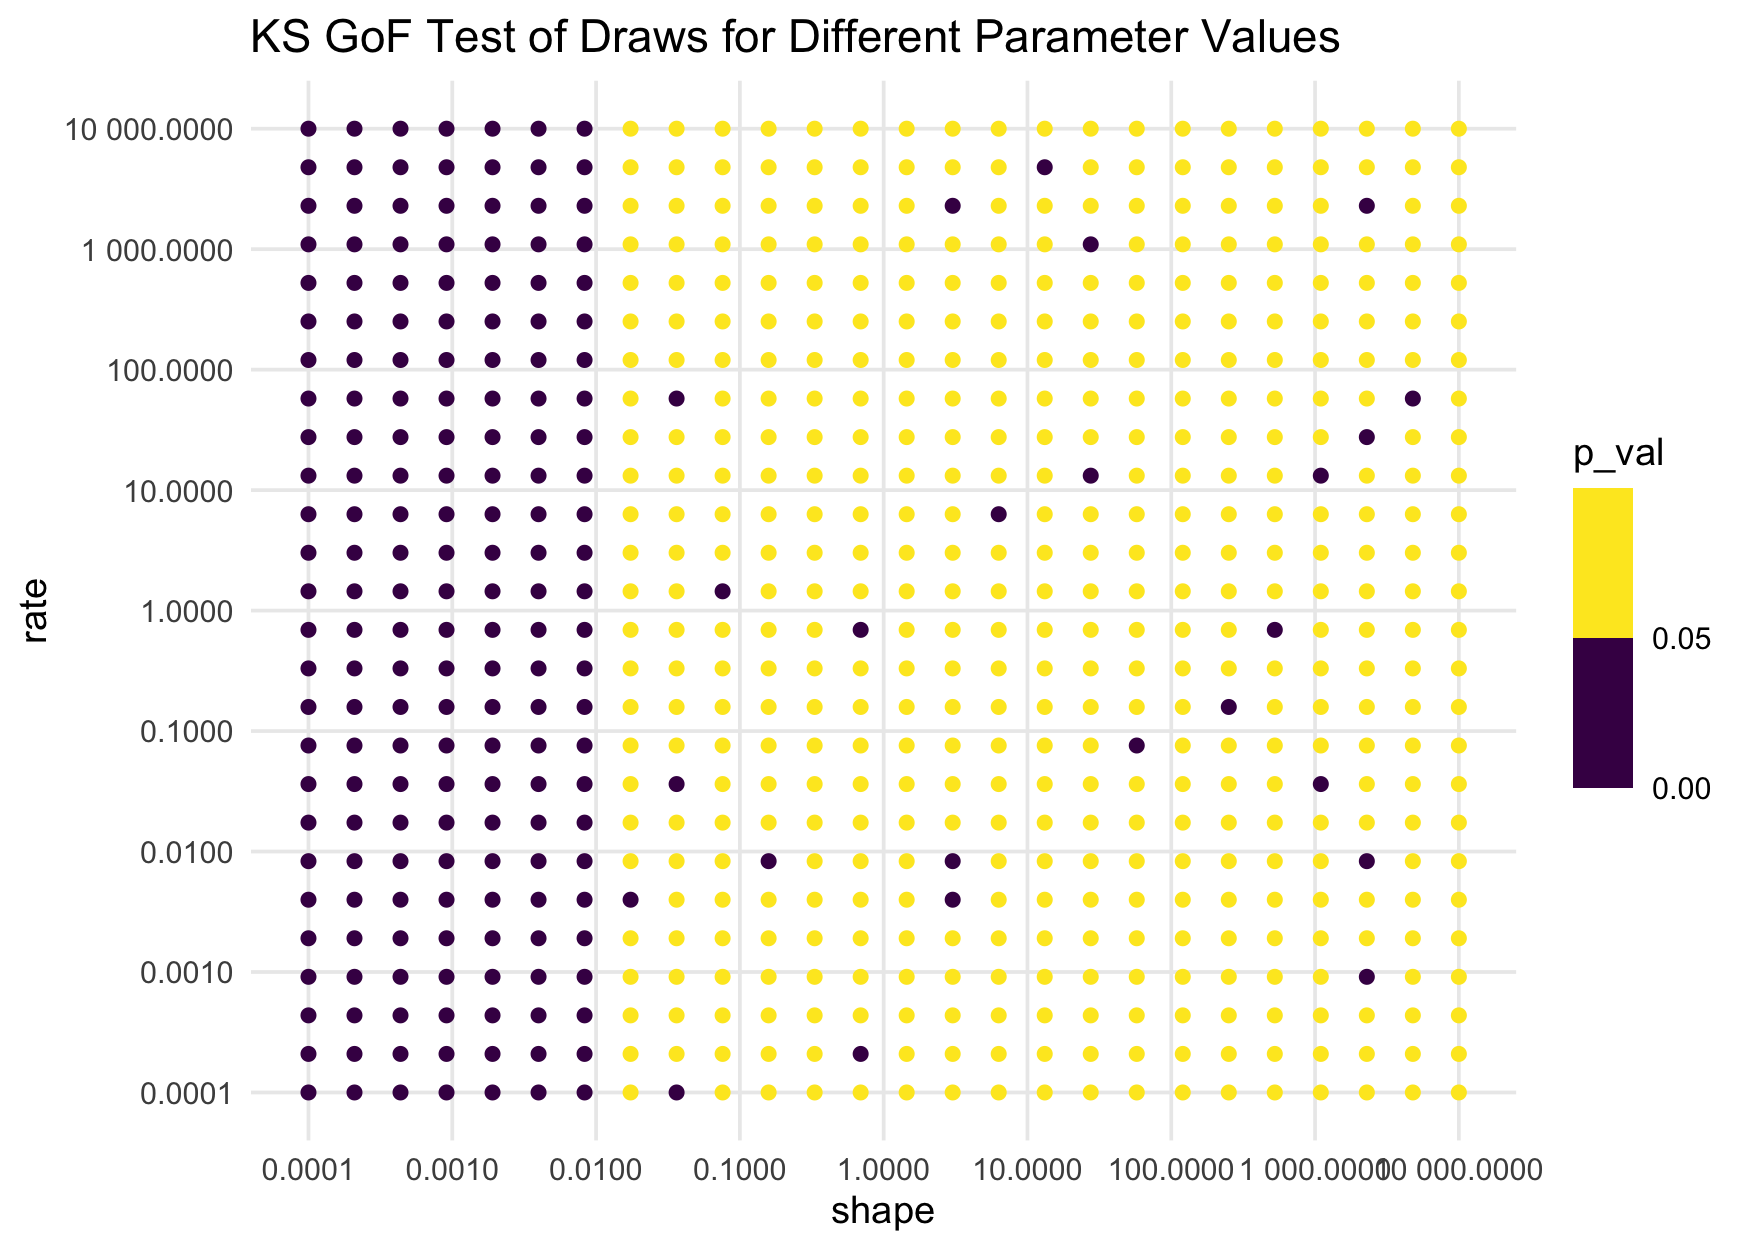
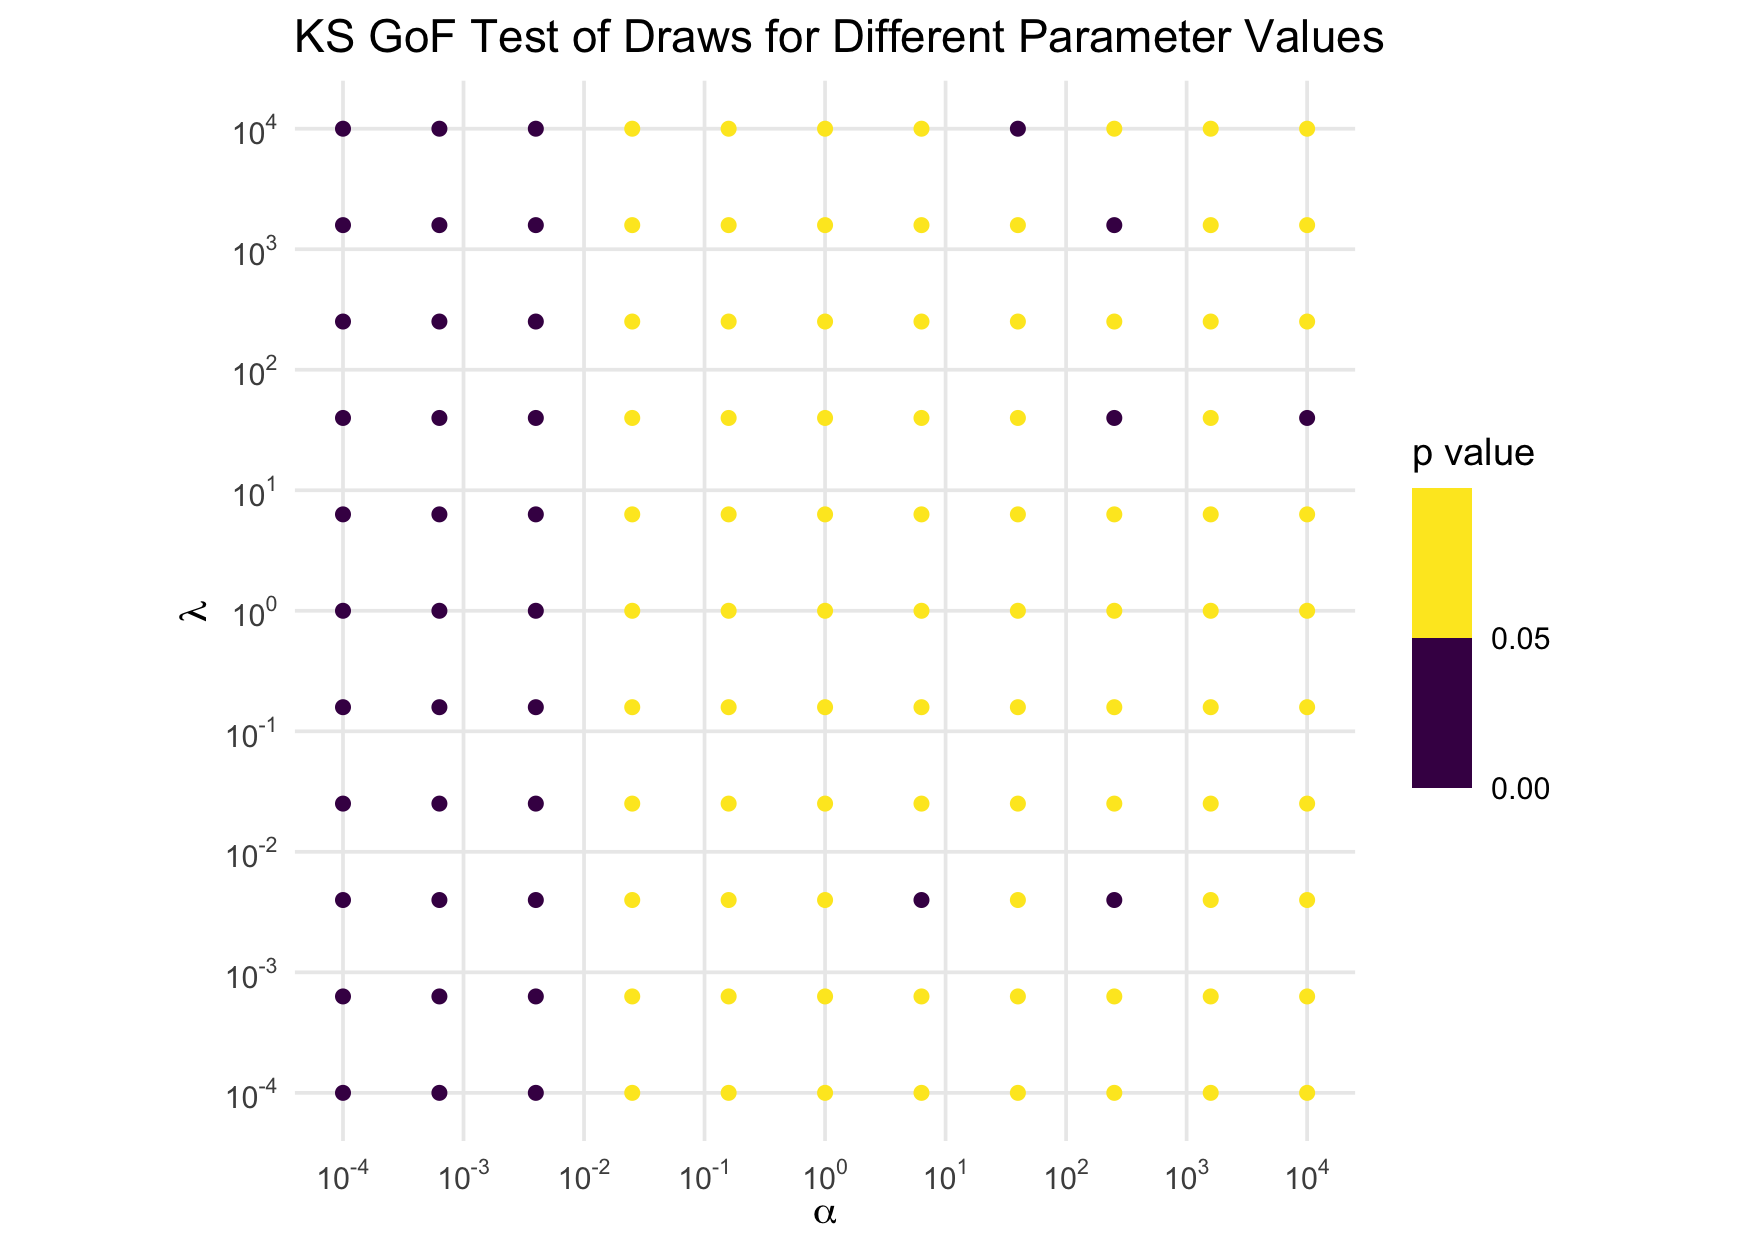
readme updates

Changed region(s): [[0.0309, 0.0, 0.9874, 0.9984], [0.3086, 0.9048, 0.3703, 0.9672], [0.0, 0.468, 0.0309, 0.4992]]

diff --git a/README.md b/README.md
@@ -1,3 +1,4 @@
+
 <!-- README.md is generated from README.Rmd. Please edit that file -->
 
 # **invgamma**
@@ -50,7 +51,7 @@ shape <- 7; rate <- 10
 plot(x, dinvgamma(x, shape, rate), type = "l")
 ```
 
-![](tools/README-unnamed-chunk-4-1.png)
+![](tools/README-unnamed-chunk-4-1.png)<!-- -->
 
 The
 [CDF](https://en.wikipedia.org/wiki/Cumulative_distribution_function)
@@ -86,8 +87,9 @@ Carlo](https://en.wikipedia.org/wiki/Monte_Carlo_method) estimate of the
 probability given by `pinvgamma()` above:
 
 ``` r
-samples <- rinvgamma(1e5, shape, rate)
-mean(samples <= q)
+n <- 1e5
+draws <- rinvgamma(n, shape, rate)
+mean(draws <= q)
 #  [1] 0.76401
 ```
 
@@ -95,21 +97,35 @@ Moreover, we can check the consistency and correctness of the
 implementation with
 
 ``` r
-plot(density(samples))
+plot(density(draws), xlim = c(0,5))
 curve(f(x), col = "red", add = TRUE)
 ```
 
-![](tools/README-unnamed-chunk-9-1.png) Or
+![](tools/README-unnamed-chunk-9-1.png)<!-- -->
+
+``` r
+qqplot(
+  ppoints(n) |> qinvgamma(shape, rate),
+  draws,
+  main = "QQ plot for inverse gamma draws"
+)
+abline(0, 1, col = "red")
+```
+
+![](tools/README-unnamed-chunk-10-1.png)<!-- -->
+
+As an inferential alternative, we can use a [KS
+test](https://en.wikipedia.org/wiki/Kolmogorov–Smirnov_test):
 
 ``` r
 ks.test(
-  samples, 
+  draws, 
   function(p) pinvgamma(p, shape, rate)
 )
 #  
 #   Asymptotic one-sample Kolmogorov-Smirnov test
 #  
-#  data:  samples
+#  data:  draws
 #  D = 0.0029822, p-value = 0.3361
 #  alternative hypothesis: two-sided
 ```
@@ -181,19 +197,19 @@ generating a large (`n = 1e6`) sample of draws from the inverse gamma
 distribution for a given shape and rate:
 
 ``` r
-test_for_shape_rate <- function(shape, rate, n = 1e6) {
-  samples <- rinvgamma(1e6, shape, rate)
-  ks.test(samples, function(p) pinvgamma(p, shape, rate))$p.value
+test_invgamma <- function(shape, rate, n = 1e5) {
+  draws <- rinvgamma(n, shape, rate)
+  ks.test(draws, function(p) pinvgamma(p, shape, rate))$p.value
 }
 
-test_for_shape_rate(3, 7)
-#  [1] 0.4950153
+test_invgamma(3, 7)
+#  [1] 0.3464601
 ```
 
-The function returns the *p*-value associated with the KS test, so
+The function returns the $p$-value associated with the KS test, so
 “small” values suggest a departure from the null hypothesis that the
 distribution is from the corresponding inverse gamma distribution: the
-sampler is performing poorly. Under the null hypothesis, [the *p*-value
+sampler is performing poorly. Under the null hypothesis, [the $p$-value
 has an approximate uniform
 distribution](https://en.wikipedia.org/wiki/P-value#p-value_as_the_statistic_for_performing_significance_tests),
 a fact that can be found in most advanced mathematical statistics books,
@@ -201,137 +217,134 @@ so we would expect some proportion to be small regardless.
 
 We want to see the behavior of the sampler `rinvgamma()` across a wide
 array of parameter values. To do this, we use a range of parameter
-values running from small (10<sup>−</sup>4) to large (10<sup>3</sup>):
+values running from small ($10^-4$) to large ($10^4$):
 
 ``` r
-library("tidyverse"); library("scales")
-theme_set(theme_minimal())
-theme_update(panel.grid.minor = element_blank())
+# load tidyverse and related
+library("tidyverse"); library("patchwork"); library("scales", warn.conflicts = FALSE)
+theme_set(theme_minimal()); theme_update(panel.grid.minor = element_blank())
 
-N <- 26
-param_vals <- 10^seq(-4, 4, length.out = N)
-(param_grid <- expand_grid(shape = param_vals, rate = param_vals))
-#  # A tibble: 676 × 2
+# load furrr for parallel computing
+library("furrr"); furrr_options(seed = TRUE)
+#  <furrr_options>
+plan(multisession(workers = parallelly::availableCores()))
+
+# set parameter values to test
+n_grid <- 51
+param_vals <- 10^seq(-4, 4, length.out = n_grid)
+(param_grid <- expand_grid("shape" = param_vals, "rate" = param_vals))
+#  # A tibble: 2,601 × 2
 #      shape     rate
 #      <dbl>    <dbl>
 #   1 0.0001 0.0001  
-#   2 0.0001 0.000209
-#   3 0.0001 0.000437
-#   4 0.0001 0.000912
-#   5 0.0001 0.00191 
-#   6 0.0001 0.00398 
-#   7 0.0001 0.00832 
-#   8 0.0001 0.0174  
-#   9 0.0001 0.0363  
-#  10 0.0001 0.0759  
-#  # ℹ 666 more rows
+#   2 0.0001 0.000145
+#   3 0.0001 0.000209
+#   4 0.0001 0.000302
+#   5 0.0001 0.000437
+#   6 0.0001 0.000631
+#   7 0.0001 0.000912
+#   8 0.0001 0.00132 
+#   9 0.0001 0.00191 
+#  10 0.0001 0.00275 
+#  # ℹ 2,591 more rows
 ```
 
 Here’s what the experiment’s design space looks like:
 
 ``` r
+# make axes labeller
+fmt <- scales::math_format(10^.x)
+
+# make plot
 ggplot(param_grid, aes(shape, rate)) +
   geom_point() +
-  scale_x_log10(n.breaks = 10, labels = label_number()) +
-  scale_y_log10(n.breaks = 10, labels = label_number()) +
-  labs("title" = "Parameter Values at Which to Test `rinvgamma()`")
+  scale_x_log10(expression(alpha), n.breaks = 10, labels = fmt(-5:5)) +
+  scale_y_log10(expression(lambda), n.breaks = 10, labels = fmt(-5:5)) +
+  labs("title" = "Parameter Values at Which to Test `rinvgamma()`") +
+  coord_equal()
 ```
 
-![](tools/README-unnamed-chunk-14-1.png)
+![](tools/README-unnamed-chunk-15-1.png)<!-- -->
 
 Now, we run our test for each point in the design space in parallel.
 (Note: we’ve suppressed warnings here that are relevant.)
 
 ``` r
-library("furrr"); furrr_options(seed = TRUE)
-#  Loading required package: future
-#  <furrr_options>
-plan(multisession(workers = parallelly::availableCores()))
-
 param_grid <- param_grid |> 
-  mutate(p_val = future_map2_dbl(shape, rate, test_for_shape_rate))
+  mutate(p_val = future_map2_dbl(shape, rate, test_invgamma))
 ```
 
-And we visualize the distribution of the *p*-values over that space,
+And we visualize the distribution of the $p$-values over that space,
 binning the colors to at .05 to highlight the rejections of the tests at
 the 5% level:
 
 ``` r
 ggplot(param_grid, aes(shape, rate, color = p_val)) +
   geom_point() +
-  scale_x_log10(n.breaks = 10, labels = label_number()) +
-  scale_y_log10(n.breaks = 10, labels = label_number()) +
+  scale_x_log10(expression(alpha), n.breaks = 10, labels = fmt(-5:5)) +
+  scale_y_log10(expression(lambda), n.breaks = 10, labels = fmt(-5:5)) +
   scale_color_binned(breaks = c(0, .05, 1)) +
-  labs("title" = "KS GoF Test of Draws for Different Parameter Values")
+  labs(color = "p value") +
+  labs("title" = "KS GoF Test of Draws for Different Parameter Values") +
+  coord_equal()
 ```
 
-![](tools/README-unnamed-chunk-16-1.png)
+![](tools/README-unnamed-chunk-17-1.png)<!-- -->
 
-If the sampler were working correctly, the *p*-values would be
+If the sampler were working correctly, the $p$-values would be
 approximately IID uniform(0,1), so we would expect about 5% of the
 points to be purple, and those 5% would be uniformly distributed over
 the whole space with no patterns. Obviously, that’s not the case: when
 the shape parameter is small, the test is always rejecting. Clearly,
-when `shape` is small, the sampler does not work well.
+when `shape` is small, the sampler does not work well. Further
+investigations reveal that, as an easy rule, the sampler can be
+considered unreliable for `shape` values less than `0.01`. As a
+consequence, `rinvgamma()` issues a warning in those circumstances.
+(This warning has been suppressed in the above computations.)
 
-The cutoff seems to be right around `shape = .01`, so let’s rerun the
-simulation zooming in on that boundary.
-
-``` r
-# reset the grid
-param_vals_small <- 10^seq(-2.5, -1.5, length.out = N)
-param_grid <- expand_grid(shape = param_vals_small, rate = param_vals)
-
-
-# rerun the simulation
-param_grid <- param_grid |> 
-  mutate(p_val = future_map2_dbl(shape, rate, test_for_shape_rate))
-
-
-# plot results
-ggplot(param_grid, aes(shape, rate, color = p_val)) +
-  geom_point() +
-  scale_x_log10(n.breaks = 10, labels = label_number()) +
-  scale_y_log10(n.breaks = 10, labels = label_number()) +
-  scale_color_binned(breaks = c(0, .05, 1)) +
-  labs("title" = "KS GoF Test of Draws for Different Parameter Values")
-```
-
-![](tools/README-unnamed-chunk-17-1.png)
-
-The cutoff appears to be a little below `0.01`, but I include this in
-the warning in `rinvgamma()` as a good rule of thumb. Let’s zoom in a
-bit more…
-
-``` r
-# reset the grid
-param_vals_small <- 10^seq(-2.1, -2, length.out = N)
-param_grid <- expand_grid(shape = param_vals_small, rate = param_vals)
-
-
-# rerun the simulation
-param_grid <- param_grid|> 
-  mutate(p_val = future_map2_dbl(shape, rate, test_for_shape_rate))
-
-
-# plot results
-ggplot(param_grid, aes(shape, rate, color = p_val)) +
-  geom_point() +
-  scale_x_log10(n.breaks = 10, labels = label_number()) +
-  scale_y_log10(n.breaks = 10, labels = label_number()) +
-  scale_color_binned(breaks = c(0, .05, 1)) +
-  labs("title" = "KS GoF Test of Draws for Different Parameter Values")
-```
-
-![](tools/README-unnamed-chunk-18-1.png)
-
-The simulation confirms that over a reasonably large range of the
-parameters the quality of the sampler depends almost entirely on `shape`
-(though there is roughly a linear dependence on `shape` and `rate`). As
-an easy rule, the sampler can be considered unreliable for `shape`
-values less than `0.01`.
+##### `rinvchisq()` and `rinvexp()`
 
 Similar investigations using the inverse chi-squared and inverse
 exponential reveal that `rinvchisq()` should not be trusted when
 `df <= .01` and `ncp <= 10` and `rinvexp()` is trustworthy for all
-values.
+values. Here is the illustration for the inverse chi-squared:
+
+``` r
+test_rinvchisq <- function(df, ncp, n = 1e5) {
+  draws <- rinvchisq(n, df, ncp)
+  ks.test(draws, function(p) pinvchisq(p, df, ncp))$p.value
+}
+
+expand_grid("df" = param_vals, "ncp" = param_vals) |> 
+  mutate("p_val" = future_map2_dbl(df, ncp, test_rinvchisq)) |> 
+  ggplot(aes(df, ncp, color = p_val)) +
+    geom_point() +
+    scale_x_log10(expression(nu), n.breaks = 10, labels = fmt(-5:5)) +
+    scale_y_log10("ncp", n.breaks = 10, labels = fmt(-5:5)) +
+    scale_color_binned(breaks = c(0, .05, 1)) +
+    labs(color = "p value") +
+    coord_equal()
+```
+
+![](tools/README-unnamed-chunk-18-1.png)<!-- -->
+
+And here is the illustration for the inverse exponential:
+
+``` r
+test_rinvexp <- function(rate, n = 1e5) {
+  draws <- rinvexp(n, rate = rate)
+  ks.test(draws, function(p) pinvexp(p, rate))$p.value
+}
+
+tibble("rate" = 10^seq(-4, 4, length.out = 2*n_grid)) |> 
+  mutate("p_val" = future_map_dbl(rate, test_rinvexp)) |> 
+  ggplot(aes(rate, 0, color = p_val)) +
+    geom_point() +
+    scale_x_log10(expression(lambda), n.breaks = 10, labels = fmt(-5:5)) +
+    scale_color_binned(breaks = c(0, .05, 1), guide = FALSE) +
+    theme(axis.text.y = element_blank(), axis.title.y = element_blank(),
+          panel.grid.major.y = element_blank()) +
+    coord_equal()
+```
+
+![](tools/README-unnamed-chunk-19-1.png)<!-- -->
